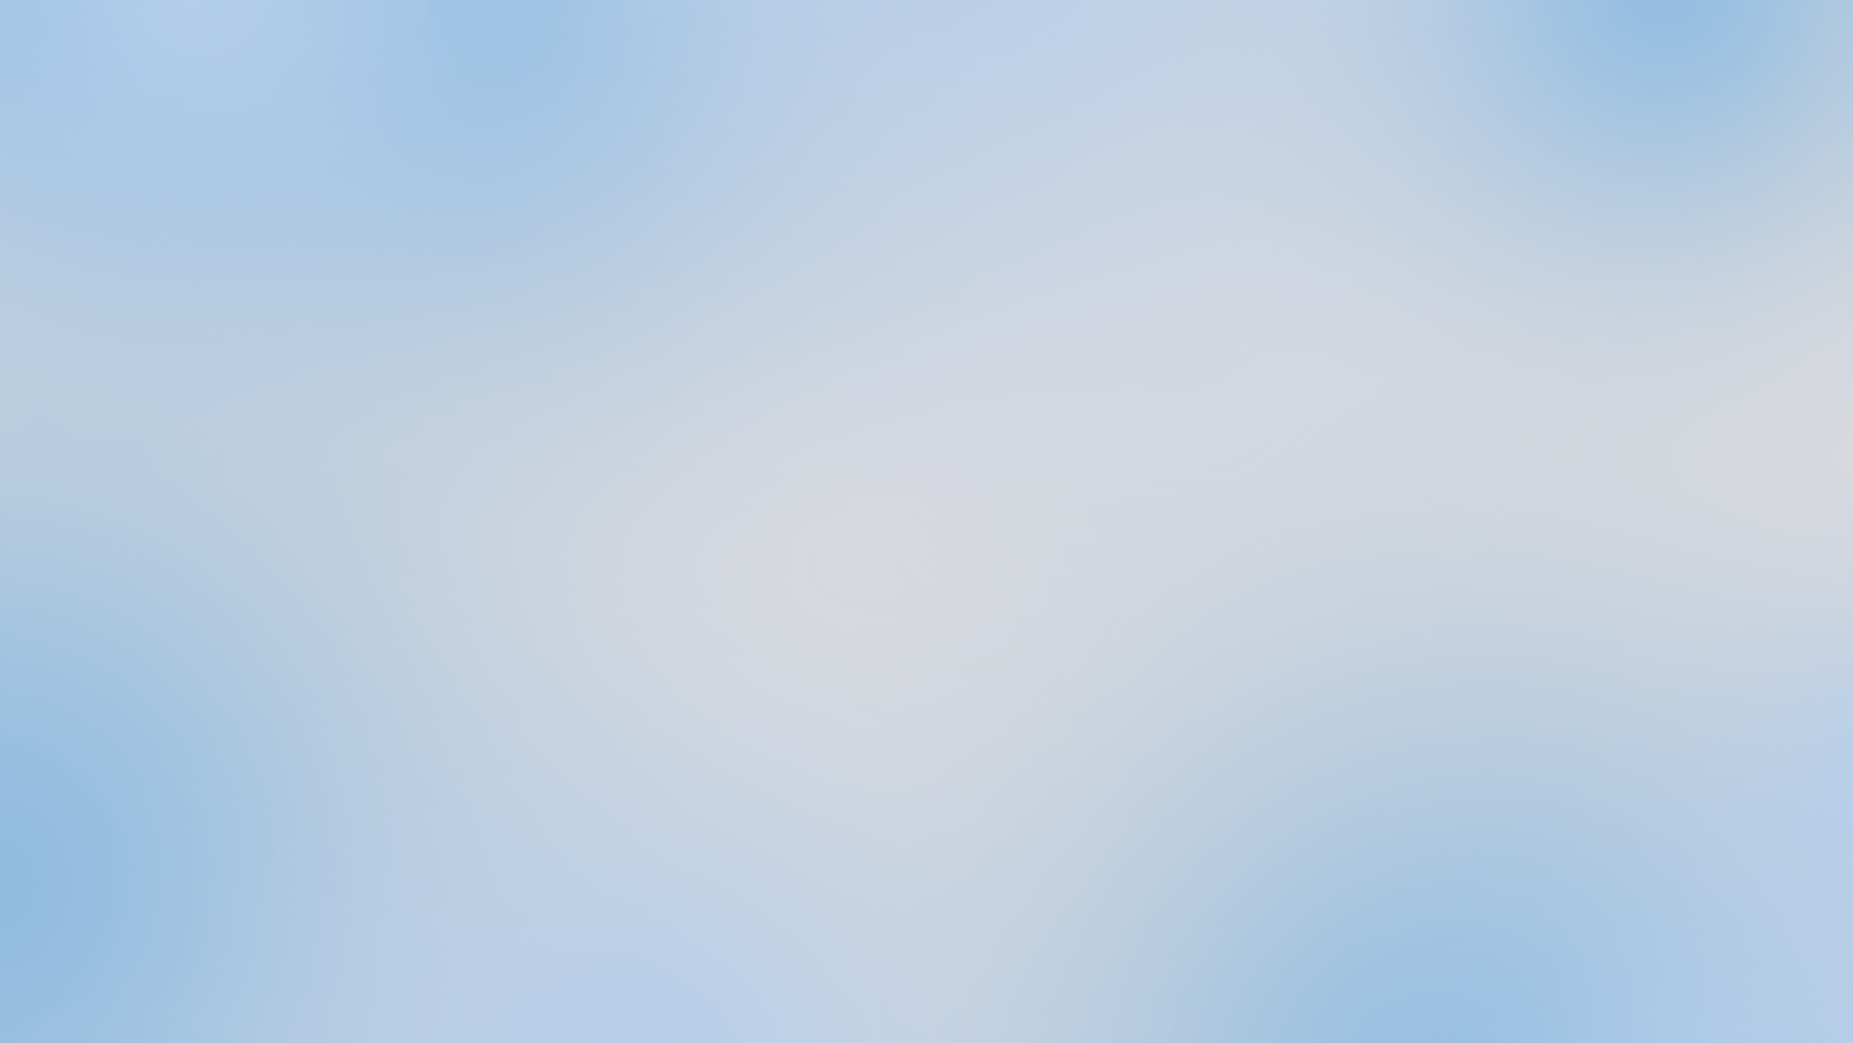
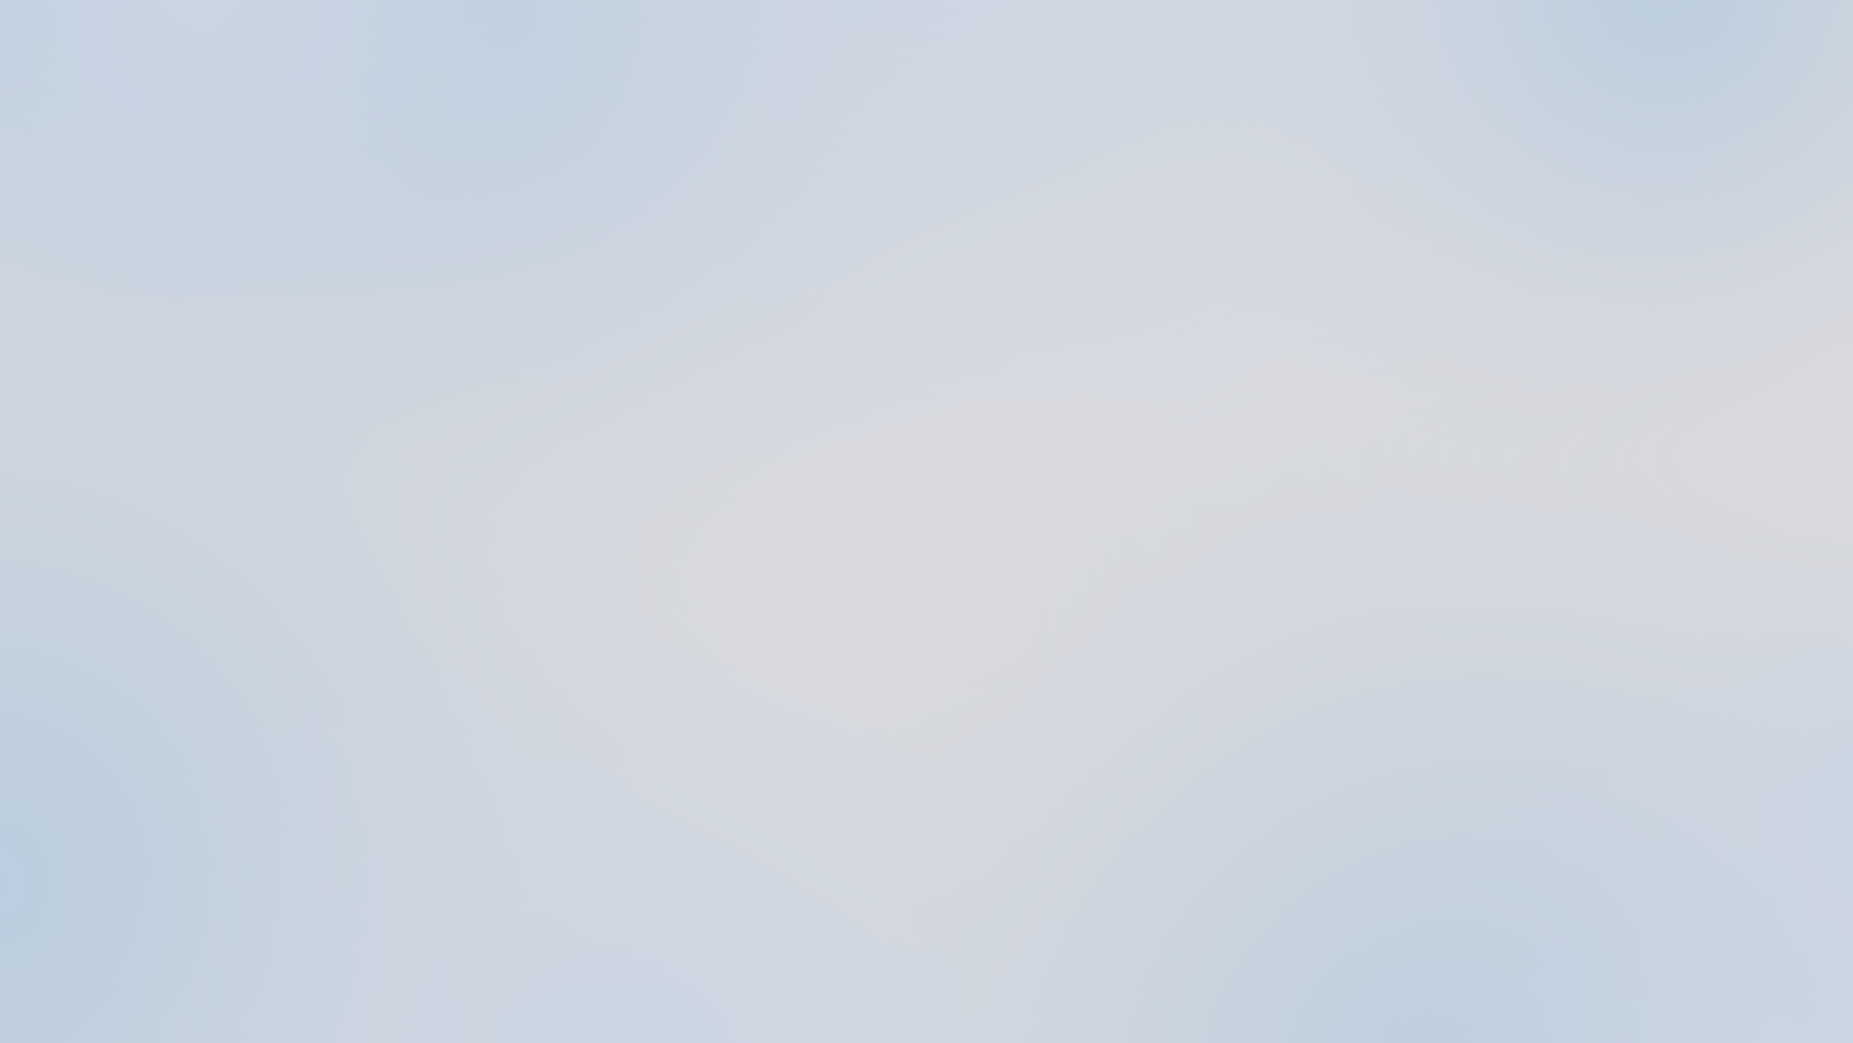
main folders

diff --git a/src/front-end/public/index.html b/src/front-end/public/index.html
@@ -5,39 +5,11 @@
     <link rel="icon" href="%PUBLIC_URL%/favicon.ico" />
     <meta name="viewport" content="width=device-width, initial-scale=1" />
     <meta name="theme-color" content="#000000" />
-    <meta
-      name="description"
-      content="Web site created using create-react-app"
-    />
-    <link rel="apple-touch-icon" href="%PUBLIC_URL%/logo192.png" />
-    <!--
-      manifest.json provides metadata used when your web app is installed on a
-      user's mobile device or desktop. See https://developers.google.com/web/fundamentals/web-app-manifest/
-    -->
-    <link rel="manifest" href="%PUBLIC_URL%/manifest.json" />
-    <!--
-      Notice the use of %PUBLIC_URL% in the tags above.
-      It will be replaced with the URL of the `public` folder during the build.
-      Only files inside the `public` folder can be referenced from the HTML.
 
-      Unlike "/favicon.ico" or "favicon.ico", "%PUBLIC_URL%/favicon.ico" will
-      work correctly both with client-side routing and a non-root public URL.
-      Learn how to configure a non-root public URL by running `npm run build`.
-    -->
-    <title>React App</title>
+    <title>Unknown Store</title>
   </head>
   <body>
     <noscript>You need to enable JavaScript to run this app.</noscript>
     <div id="root"></div>
-    <!--
-      This HTML file is a template.
-      If you open it directly in the browser, you will see an empty page.
-
-      You can add webfonts, meta tags, or analytics to this file.
-      The build step will place the bundled scripts into the <body> tag.
-
-      To begin the development, run `npm start` or `yarn start`.
-      To create a production bundle, use `npm run build` or `yarn build`.
-    -->
   </body>
 </html>

diff --git a/src/front-end/src/App.js b/src/front-end/src/App.js
@@ -1,25 +1,8 @@
-import logo from './logo.svg';
-import './App.css';
 
-function App() {
-  return (
-    <div className="App">
-      <header className="App-header">
-        <img src={logo} className="App-logo" alt="logo" />
-        <p>
-          Edit <code>src/App.js</code> and save to reload.
-        </p>
-        <a
-          className="App-link"
-          href="https://reactjs.org"
-          target="_blank"
-          rel="noopener noreferrer"
-        >
-          Learn React
-        </a>
-      </header>
-    </div>
-  );
+
+export const App =()=>{
+  return(
+      <>
+      </>
+  )
 }
-
-export default App;

diff --git a/src/front-end/src/index.js b/src/front-end/src/index.js
@@ -1,8 +1,7 @@
 import React from 'react';
 import ReactDOM from 'react-dom/client';
 import './index.css';
-import App from './App';
-import reportWebVitals from './reportWebVitals';
+import {App} from './App';
 
 const root = ReactDOM.createRoot(document.getElementById('root'));
 root.render(
@@ -10,8 +9,3 @@ root.render(
     <App />
   </React.StrictMode>
 );
-
-// If you want to start measuring performance in your app, pass a function
-// to log results (for example: reportWebVitals(console.log))
-// or send to an analytics endpoint. Learn more: https://bit.ly/CRA-vitals
-reportWebVitals();

diff --git a/src/UnknownStore.IdentityServer/wwwroot/css/site.css b/src/UnknownStore.IdentityServer/wwwroot/css/site.css
@@ -33,9 +33,7 @@ body {
 
 #login {
     align-items: center;
-    background-image: url('/pictures/background.png');
-    background-repeat: no-repeat;
-    background-size: cover;
+    background-color:var(--background);
     display: flex;
     height: 100vh;
     justify-content: center;
